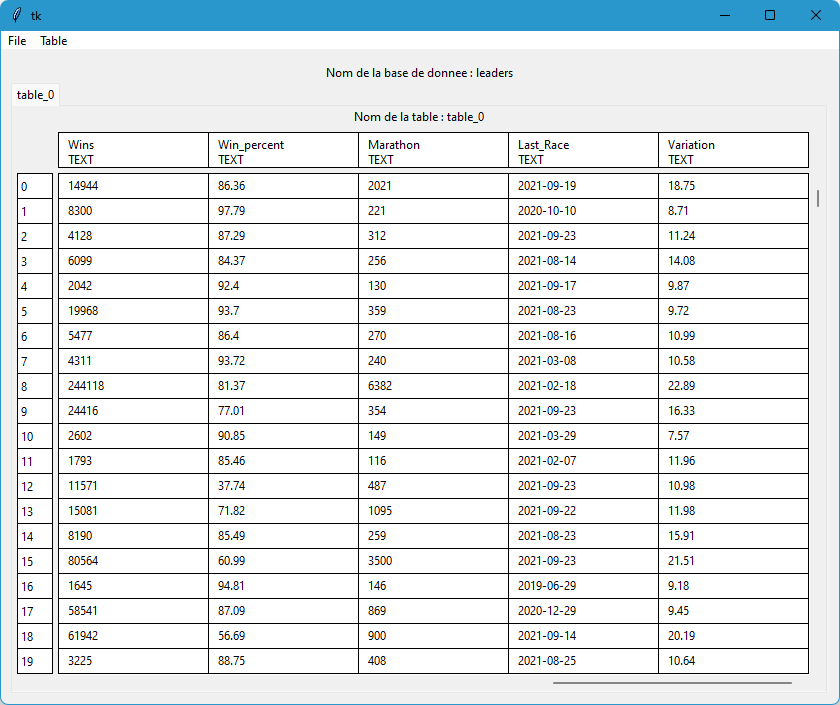
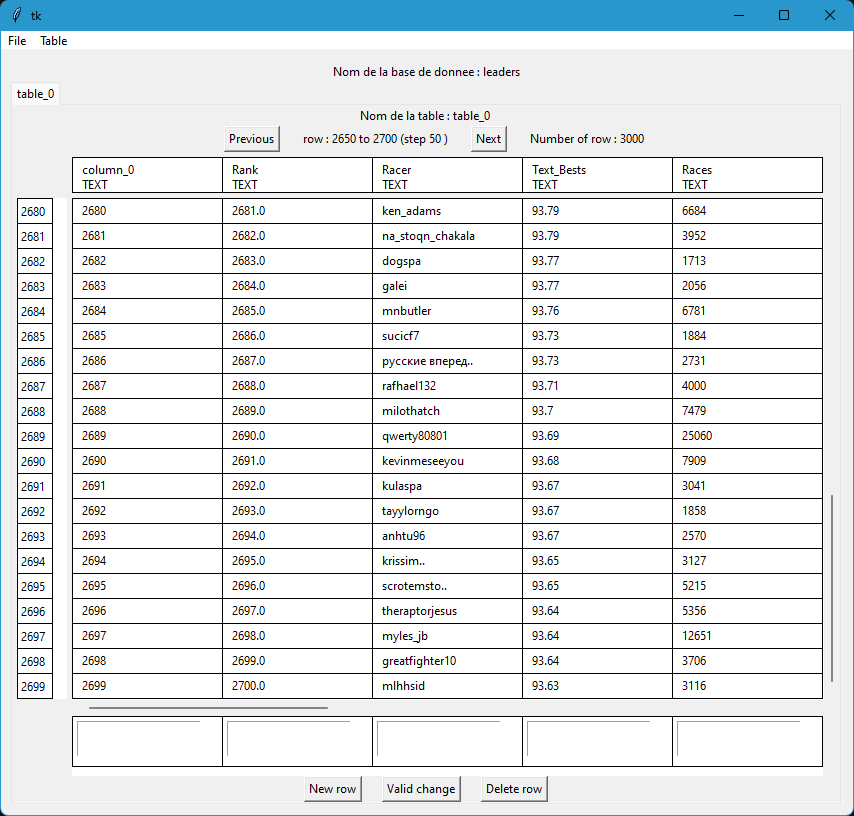
probleme view reglé

Changed region(s): [[0.0, 0.0, 1.0, 1.0], [0.0, 0.0936, 0.0619, 0.156]]

diff --git a/interface/frameonglet.py b/interface/frameonglet.py
@@ -3,14 +3,15 @@ from tkinter import Frame, Canvas, Label, ALL, Scrollbar,Text,Button,StringVar
 
 class FrameOnglet(Frame):
     def __init__(self,boss,**kwargs):
+        self.number_row = None
         self.boss=boss
         self.name=kwargs["name"]
         self.types_column=kwargs["types_column"]
         self.taille_x_case=150
-        self.step_view=5
+        self.step_view=50
         self.view_max=0
         self.view_min=0
-        self.index_row_focus=None
+        self.index_row_focus=0
         self.img_row_focus=None
         self.text_img_row_focus=None
         self.liste_text_row=[]
@@ -88,10 +89,12 @@ class FrameOnglet(Frame):
         if datas:
             for y in range(self.view_min,self.view_max):
                 for x in range(taille_x):
-                    self.can.create_rectangle( self.taille_x_case * x, 25*y,   150 * x + self.taille_x_case, 25*y+25)
-                    self.can.create_text(10+self.taille_x_case*x,5+25*y,anchor='nw',text=str(datas[y][x]))
-                self.can_index.create_rectangle(0,25*y,35,25*y+25)
-                self.can_index.create_text(4,6+25*y,anchor='nw',text=str(y))
+                    y_temp=y-self.view_min
+                    self.can.create_rectangle( self.taille_x_case * x, 25*y_temp,   150 * x + self.taille_x_case, 25*y_temp+25)
+                    self.can.create_text(10+self.taille_x_case*x,5+25*y_temp,anchor='nw',text=str(datas[y][x]))
+                self.can_index.create_rectangle(0,25*y_temp,35,25*y_temp+25)
+                self.can_index.create_text(4,6+25*y_temp,anchor='nw',text=str(y))
+        taille_y=self.view_max-self.view_min
         self.can.config(scrollregion=(0,0,1+self.taille_x_case*taille_x,1+25*taille_y))
         self.can_head.config(scrollregion=(0,0,1+self.taille_x_case*taille_x,40))
         self.can_index.config(scrollregion=(0,0,35,1+25*taille_y))
@@ -119,8 +122,7 @@ class FrameOnglet(Frame):
         self.can_index.yview(args[0], args[1])
 
     def exit_can_index(self,event):
-
-        y=(int(self.can_index.canvasy(0))+event.y)//25
+        y=((int(self.can_index.canvasy(0))+event.y)//25)+self.view_min
         self.boss.change_row_focus(y)
 
     def mise_a_jour_row_focus(self,index,row_data):
@@ -128,8 +130,9 @@ class FrameOnglet(Frame):
             self.can_index.delete(self.img_row_focus)
             self.can_index.delete(self.text_img_row_focus)
         self.index_row_focus=index
+        index-=self.view_min
         self.img_row_focus=self.can_index.create_rectangle(0, 25 * index, 35, 25 * index + 25,fill='grey80')
-        self.text_img_row_focus=self.can_index.create_text(4, 6 + 25 * index, anchor='nw', text=str(index))
+        self.text_img_row_focus=self.can_index.create_text(4, 6 + 25 * index, anchor='nw', text=str(self.index_row_focus))
         self.canvas_modif_row.delete(ALL)
         self.liste_text_row=[]
         for element in range(len(row_data)):

diff --git a/main.py b/main.py
@@ -115,7 +115,7 @@ class Root(Tk):
         self.interface.mise_a_jour_table(self.database_focus,self.index_onglet_focus)
 
     def change_row_focus(self,index):
-        if index<len(self.database_focus.datas_per_tables[self.index_onglet_focus]):
+        if index<self.interface.onglets[self.index_onglet_focus].view_max:
             self.index_row_focus=index
             self.interface.mise_a_jour_row_focus(index,self.database_focus.datas_per_tables[self.index_onglet_focus][index])
 
